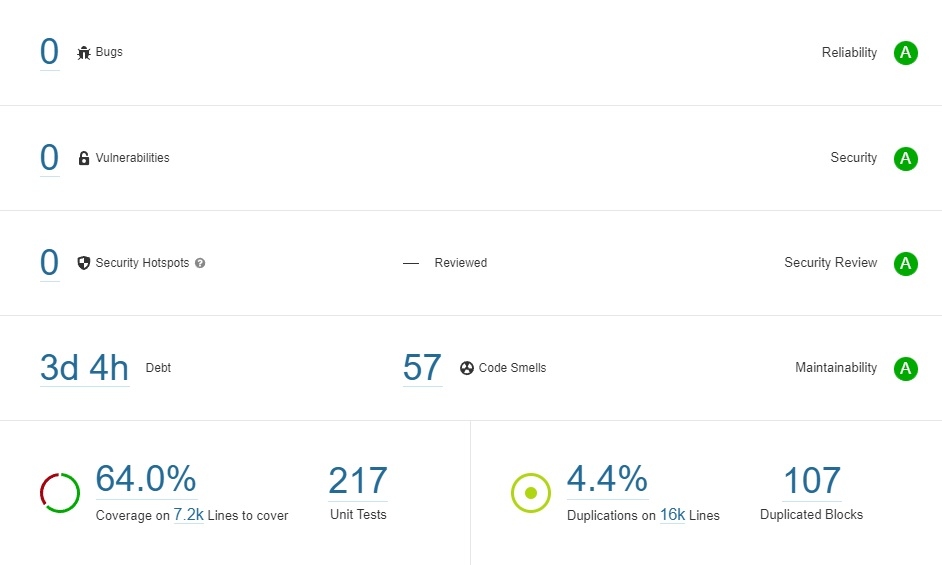
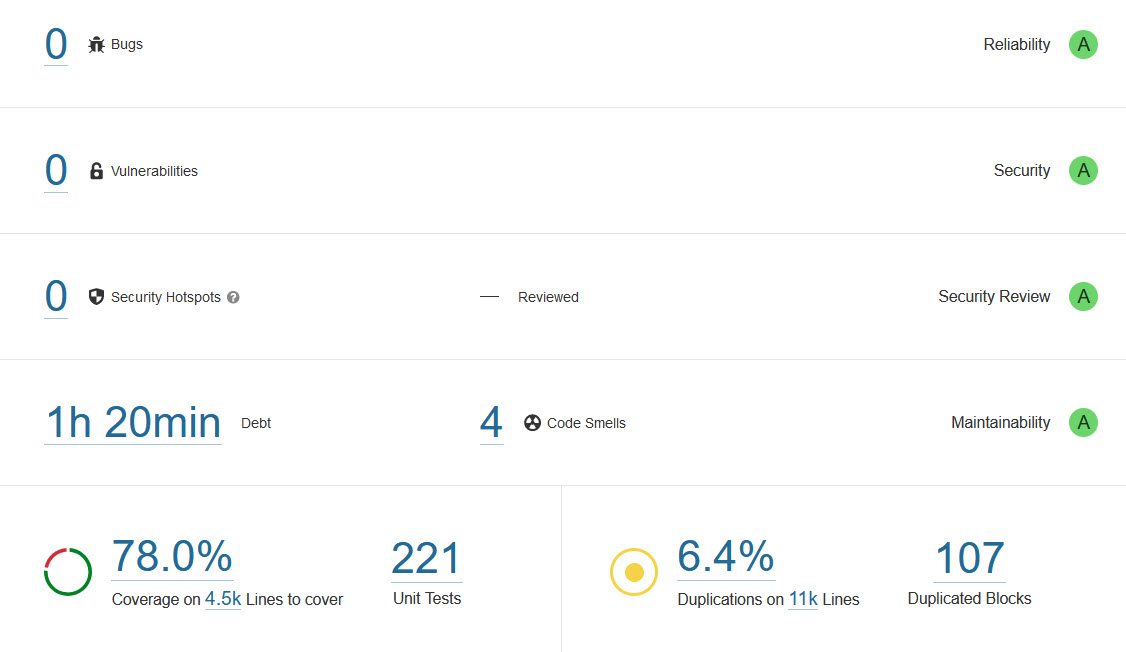
Update Readme

diff --git a/CHANGELOG.md b/CHANGELOG.md
@@ -1,5 +1,29 @@
 # Changelog
 
+## Release 1.4
+
+Release 1.4 includes some feedback from the Federal Chancellery's mandated experts and other experts of the community.
+We want to thank the experts for their high-quality, constructive remarks:
+
+* Vanessa Teague (Thinking Cybersecurity), Olivier Pereira (Université catholique Louvain), Thomas Edmund Haines (Australian National University)
+* Aleksander Essex (Western University Canada)
+* Rolf Haenni, Reto Koenig, Philipp Locher, Eric Dubuis (Bern University of Applied Sciences)
+
+The following functionalities and improvements are included in release 1.4:
+
+* Aligned the identifiers of the verifications to the identifiers in the verifier specification (feedback from Rolf Haenni, Reto Koenig, Philipp Locher, and Eric Dubuis).
+* Added the semantic information of the voting options to the primes mapping table (feedback from Rolf Haenni, Reto Koenig, Philipp Locher, Eric Dubuis).
+* Extended the VerifyPrimesMappingTableConsistency verification to check that the setup component's primes mapping table corresponds to the canton's configuration XML.
+* Modified the VerifyProcessPlaintexts verification to use the GetEncodedVotingOptions and GetActualVotingOptions algorithm.
+* Extracted common algorithms (Factorize, QuadraticResidueToWriteIn, IntegerToWriteIn, isWriteInOption, DecodeWriteIns, GetMixnetInitialCiphertexts, VerifyMixDecOffline, VerifyVotingClientProofs) to evoting-libraries.
+* Improved the duplicate checks in various data objects.
+* Improved the logging of errors and messages.
+* Various improvements in the user interface and the PDF report.
+* Updated the verifier to evoting-config version 5.
+* Updated dependencies and third-party libraries.
+
+---
+
 ## Release 1.3.3
 
 Release 1.3.3 contains some minor bug fixes and updates. Release 1.3.1 and 1.3.2 were internal releases and hence do not contain a separate readme.
@@ -15,12 +39,7 @@ Release 1.3.3 contains some minor bug fixes and updates. Release 1.3.1 and 1.3.2
 
 ## Release 1.3
 
-Release 1.3 includes some feedback from the Federal Chancellery's mandated experts and other experts of the community.
-We want to thank the experts for their high-quality, constructive remarks:
-
-* Vanessa Teague (Thinking Cybersecurity), Olivier Pereira (Université catholique Louvain), Thomas Edmund Haines (Australian National University)
-* Aleksander Essex (Western University Canada)
-* Rolf Haenni, Reto Koenig, Philipp Locher, Eric Dubuis (Bern University of Applied Sciences)
+Release 1.3 incorporates feedback from the Federal Chancellery's mandated experts (see above).
 
 The following functionalities and improvements are included in release 1.3:
 

diff --git a/README.md b/README.md
@@ -38,18 +38,18 @@ We strive for excellent code quality to minimize the risk of bugs and vulnerabil
 ### SonarQube Analysis
 
 We parametrize SonarQube with the built-in Sonar way quality profile. The SonarQube analysis of the verifier code reveals 0 bugs, 0 vulnerabilities, 0
-security hotspots, and 57 code smells.
+security hotspots, and 4 code smells.
 
 ![SonarQube](SonarQube.jpg)
 
-The verifier contains 57 code smells in the code. [Code smells](https://docs.sonarqube.org/latest/user-guide/concepts/) are
+The verifier contains 4 code smells in the code. [Code smells](https://docs.sonarqube.org/latest/user-guide/concepts/) are
 maintainability-related issues that might increase the likelihood of errors in future code changes but do not directly impact the code's security and
 robustness. An example would be a method that contains too many if/else statements, therefore has a high cognitive complexity, hence is difficult to
 maintain.
 
 ### JFrog X-Ray Analysis
 
-At the time of writing (February 2023), the published source code contains no directly dependent Java component with known vulnerabilities except
+At the time of writing (April 2023), the published source code contains no directly dependent Java component with known vulnerabilities except
 for the vulnerability [CVE-2016-1000027](https://nvd.nist.gov/vuln/detail/CVE-2016-1000027) in the Spring framework.
 This particular vulnerability is [somewhat contested](https://github.com/spring-projects/spring-framework/issues/24434)
 and our internal analysis concluded that it cannot be exploited in the verifier of the Swiss Post Voting System.
@@ -69,6 +69,7 @@ The following table indicates the correspondence between the Verifier and E-voti
 | 1.3.1            | 1.2.1                                                                      |
 | 1.3.2            | 1.2.2                                                                      |
 | 1.3.3            | 1.2.3                                                                      |
+| 1.4.0            | 1.3.0                                                                      |
 
 ## Build information
 